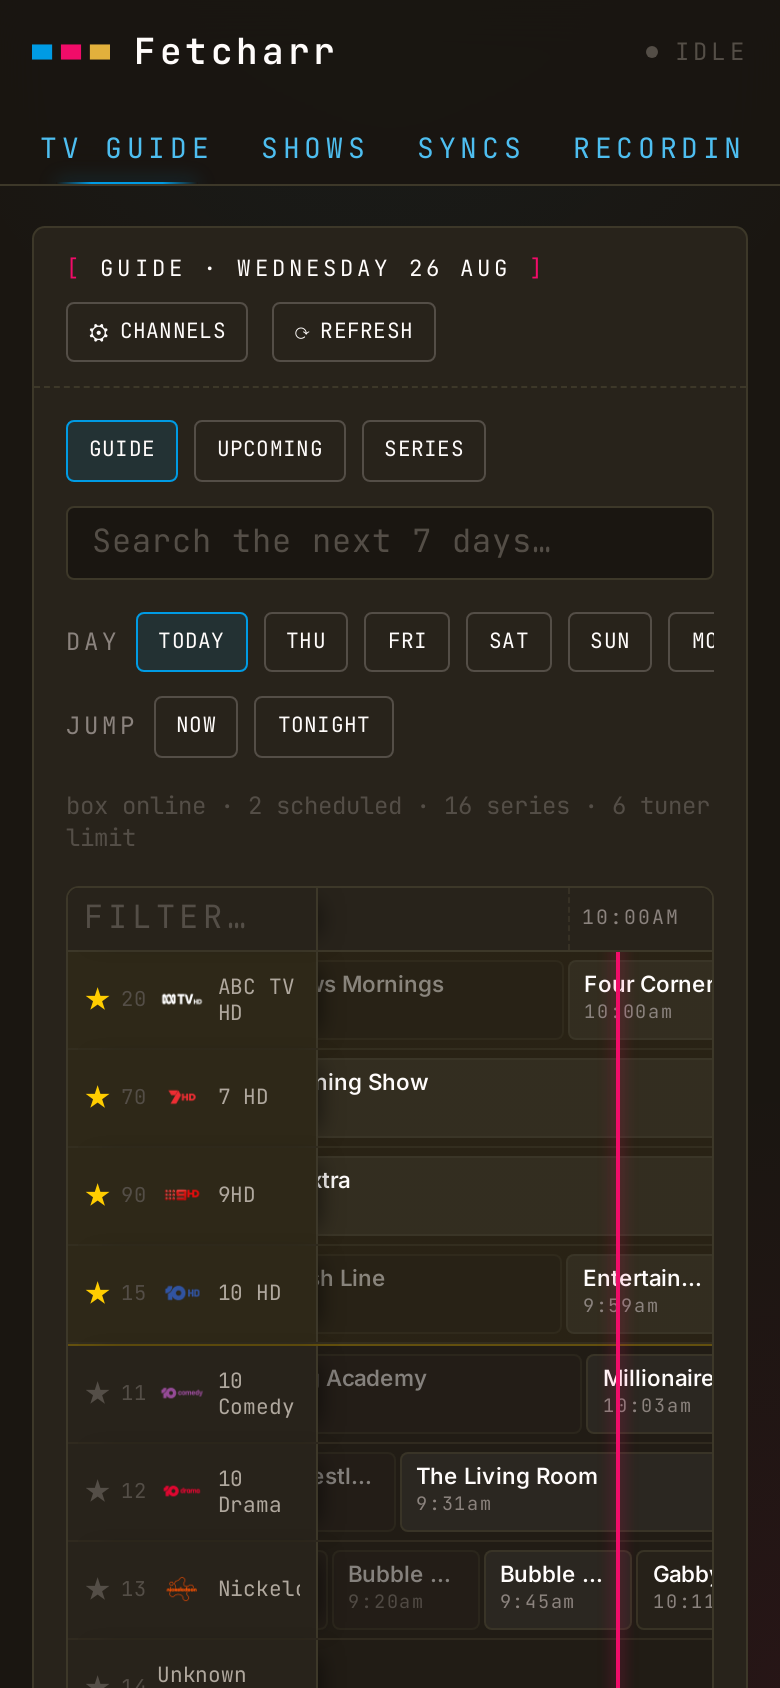
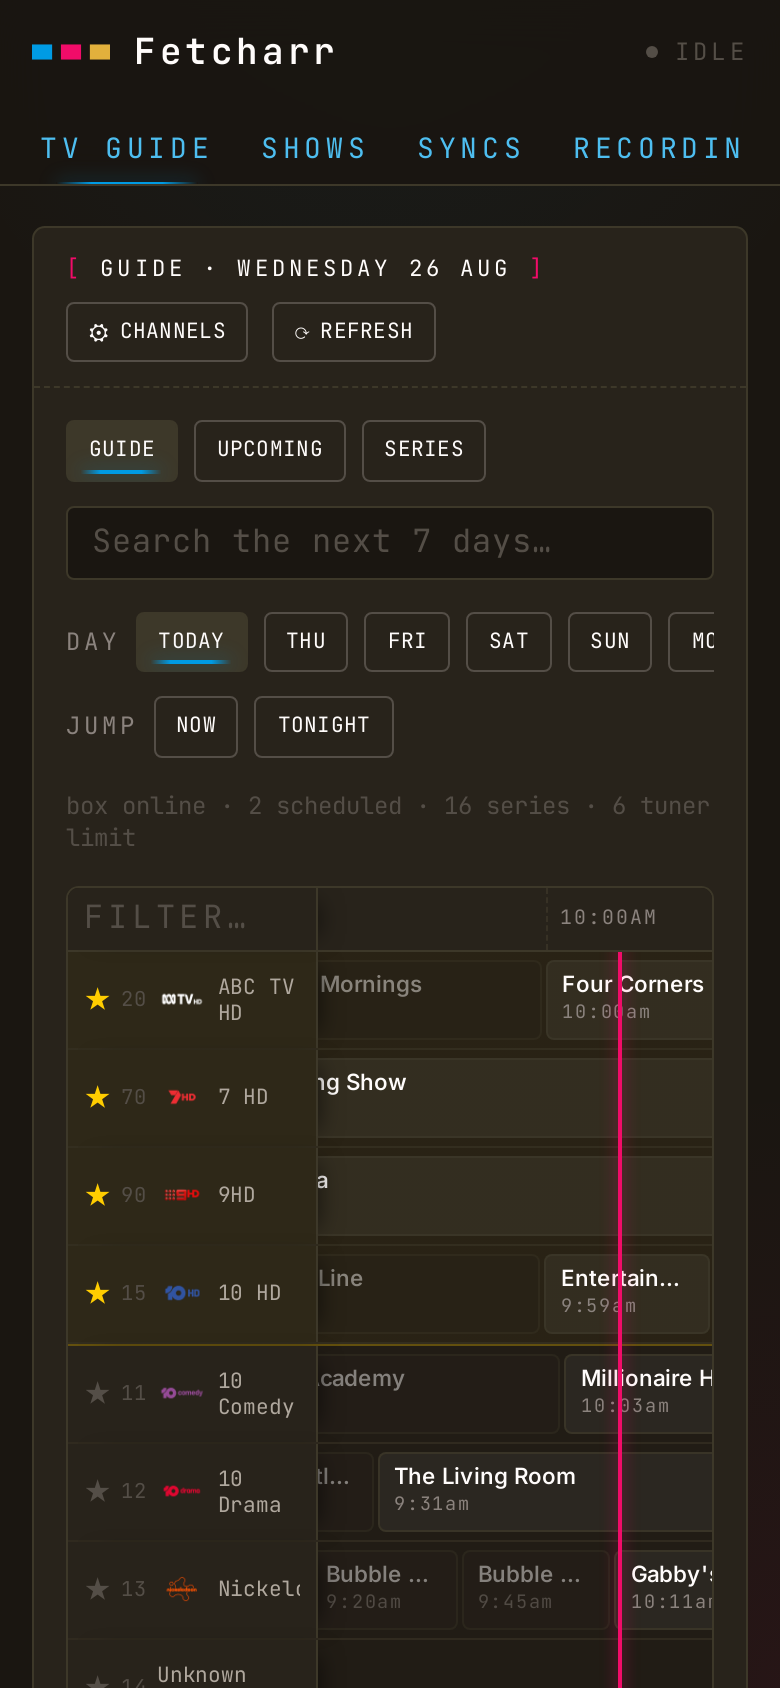
Introduced a pressed-segment style with a blue LED underline for selected filter and mode chips so state no longer shares btn-primary with actions, right-aligned the guide search input and jump buttons on desktop, and regenerated the README screenshots.

diff --git a/src/web/app.js b/src/web/app.js
@@ -983,7 +983,7 @@ const SyncsView = {
             <div class="chip-row md:flex-wrap">
               <button v-for="opt in filterOptions" :key="opt.key"
                 type="button"
-                :class="['btn', 'btn-sm', filter === opt.key ? 'btn-primary' : '']"
+                :class="['btn', 'btn-sm', filter === opt.key ? 'btn-on' : '']"
                 @click="setFilter(opt.key)">{{ opt.label }}</button>
             </div>
           </div>
@@ -1155,7 +1155,7 @@ const RecordingsView = {
               <div class="chip-row md:flex-wrap">
                 <button v-for="opt in statusOptions" :key="opt"
                   type="button"
-                  :class="['btn', 'btn-sm', statusFilter === opt ? 'btn-primary' : '']"
+                  :class="['btn', 'btn-sm', statusFilter === opt ? 'btn-on' : '']"
                   @click="setStatus(opt)">{{ opt.toUpperCase() }}</button>
               </div>
             </div>
@@ -1172,7 +1172,7 @@ const RecordingsView = {
               <div class="chip-row md:flex-wrap">
                 <button v-for="opt in sinceOptions" :key="opt.key"
                   type="button"
-                  :class="['btn', 'btn-sm', sinceFilter === opt.key ? 'btn-primary' : '']"
+                  :class="['btn', 'btn-sm', sinceFilter === opt.key ? 'btn-on' : '']"
                   @click="setSince(opt.key)">{{ opt.label }}</button>
               </div>
             </div>
@@ -1181,7 +1181,7 @@ const RecordingsView = {
               <div class="chip-row md:flex-wrap">
                 <button v-for="opt in deletedOptions" :key="opt.key"
                   type="button"
-                  :class="['btn', 'btn-sm', deletedFilter === opt.key ? 'btn-primary' : '']"
+                  :class="['btn', 'btn-sm', deletedFilter === opt.key ? 'btn-on' : '']"
                   @click="setDeleted(opt.key)">{{ opt.label }}</button>
               </div>
             </div>
@@ -2732,10 +2732,10 @@ const EpgView = {
           <div class="flex flex-col gap-3 md:flex-row md:flex-wrap md:items-center md:gap-x-6">
             <div class="chip-row md:flex-wrap">
               <button v-for="m in modes" :key="m.key" type="button"
-                :class="['btn', 'btn-sm', mode === m.key ? 'btn-primary' : '']"
+                :class="['btn', 'btn-sm', mode === m.key ? 'btn-on' : '']"
                 @click="setMode(m.key)">{{ m.label }}</button>
             </div>
-            <div class="flex-1 min-w-[12rem] md:max-w-xs">
+            <div class="flex-1 min-w-[12rem] md:max-w-xs md:ml-auto">
               <input v-model="searchQ" type="search" class="field-input" :placeholder="searchPlaceholder"
                 style="padding-top: 0.35rem; padding-bottom: 0.35rem;" />
             </div>
@@ -2775,11 +2775,11 @@ const EpgView = {
                 <span class="text-xs font-mono uppercase tracking-[0.16em] text-ink-dim">DAY</span>
                 <div class="chip-row md:flex-wrap">
                   <button v-for="d in dayChips" :key="d.day" type="button"
-                    :class="['btn', 'btn-sm', day === d.day ? 'btn-primary' : '']"
+                    :class="['btn', 'btn-sm', day === d.day ? 'btn-on' : '']"
                     @click="setDay(d.day)">{{ d.label }}</button>
                 </div>
               </div>
-              <div class="flex items-center gap-2">
+              <div class="flex items-center gap-2 md:ml-auto">
                 <span class="text-xs font-mono uppercase tracking-[0.16em] text-ink-dim">JUMP</span>
                 <div class="chip-row">
                   <button type="button" class="btn btn-sm" @click="jumpNow">NOW</button>
@@ -3084,7 +3084,7 @@ const EpgView = {
               <label class="field-label">SORT UNPINNED CHANNELS BY</label>
               <div class="chip-row">
                 <button v-for="s in sortOptions" :key="s.key" type="button"
-                  :class="['btn', 'btn-sm', sortDraft === s.key ? 'btn-primary' : '']"
+                  :class="['btn', 'btn-sm', sortDraft === s.key ? 'btn-on' : '']"
                   @click="sortDraft = s.key">{{ s.label }}</button>
               </div>
             </div>

diff --git a/src/web/styles.css b/src/web/styles.css
@@ -386,6 +386,31 @@ table.deck-table tbody tr.tombstone .progress {
   }
 }
 
+.btn-on {
+  background: #3d3829;
+  border-color: #3d3829;
+  color: #fffcfb;
+}
+
+.btn-on::after {
+  content: "";
+  position: absolute;
+  left: 12%;
+  right: 12%;
+  bottom: 3px;
+  height: 2px;
+  background: linear-gradient(to right, transparent, #009be4 25%, #009be4 75%, transparent);
+  box-shadow: 0 0 10px rgba(0, 155, 228, 0.45);
+}
+
+@media (hover: hover) {
+  .btn-on:hover:not(:disabled) {
+    border-color: #3d3829;
+    color: #fffcfb;
+    background: #3d3829;
+  }
+}
+
 .btn-sm {
   padding: 0.3rem 0.65rem;
   font-size: 0.7rem;
